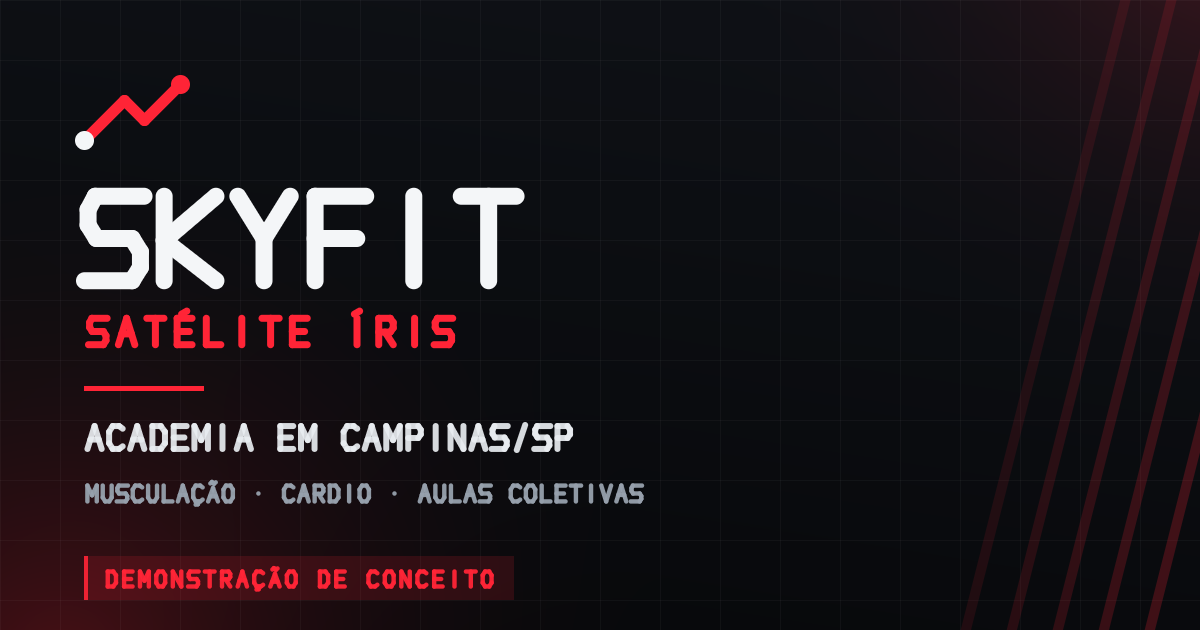
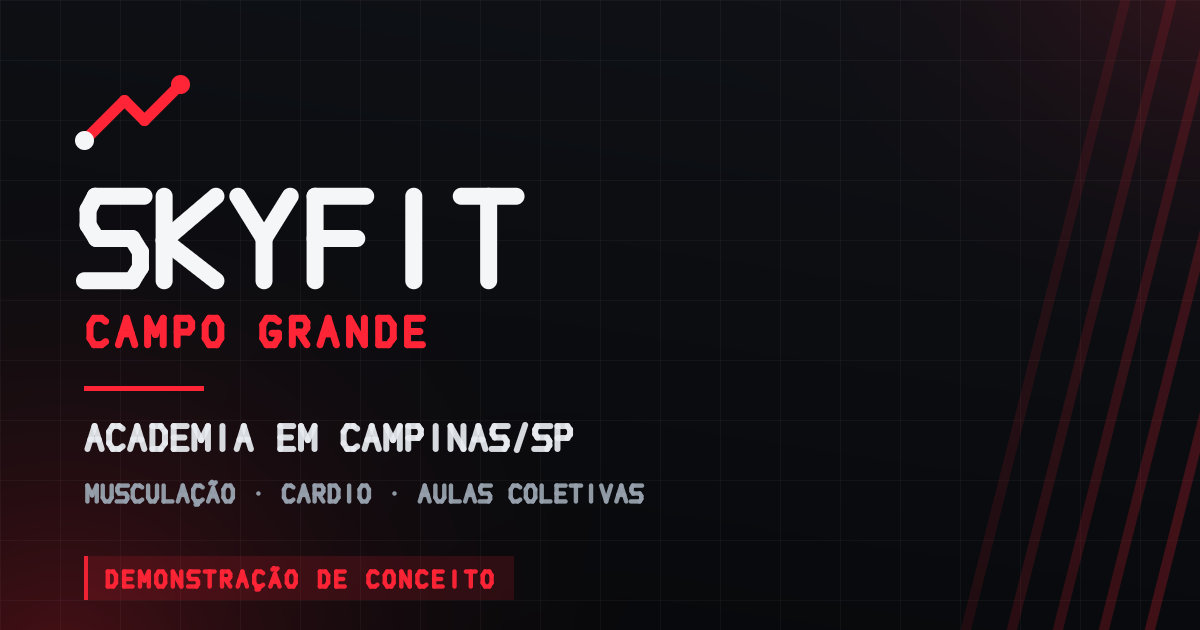
chore: renomeia a unidade de "Satélite Íris" para "Campo Grande"
Troca apenas o nome da unidade na demonstração da SkyFit. Nenhuma alteração
de layout, cores, imagens, fontes, funcionalidades ou estrutura.

16 ocorrências em 5 arquivos:
- src/config/site.js — unit, region, addressShort e o trecho codificado do
  link do Google Maps
- index.html — title, meta description, Open Graph e Twitter Card
- public/favicon.svg — aria-label
- src/styles/index.css — comentário de cabeçalho
- README.md — título e a nota de projetos do repositório

Também regerada public/og-image.png, que trazia "SATÉLITE ÍRIS" renderizado
em pixels e não seria alcançada por uma busca de texto. Só a string mudou —
composição, cores e tipografia da imagem seguem iguais.

O projeto exclusive-academia/ não foi tocado: "Cidade Satélite Íris" é o
endereço real daquela academia.

Verificado: nenhuma ocorrência de "Satélite" ou "Íris" restou em arquivo
algum do projeto (fonte e build); build sem erros e console limpo.

Claude-Session: https://claude.ai/code/session_017bWK6FuHkEQZPyCr7wyo96

Changed region(s): [[0.0617, 0.4825, 0.4008, 0.573]]

diff --git a/index.html b/index.html
@@ -6,10 +6,10 @@
     <meta name="theme-color" content="#07080a" />
 
     <!-- ================= SEO ================= -->
-    <title>SkyFit Satélite Íris | Academia em Campinas</title>
+    <title>SkyFit Campo Grande | Academia em Campinas</title>
     <meta
       name="description"
-      content="Conheça uma demonstração de experiência digital para uma academia na região do Satélite Íris, Campinas."
+      content="Conheça uma demonstração de experiência digital para uma academia na região do Campo Grande, Campinas."
     />
     <meta name="author" content="Demonstração de conceito — projeto independente" />
     <!-- Demonstração: não deve ser indexada como página oficial da academia.
@@ -21,23 +21,23 @@
     <!-- ================= Open Graph ================= -->
     <meta property="og:type" content="website" />
     <meta property="og:locale" content="pt_BR" />
-    <meta property="og:site_name" content="SkyFit Satélite Íris — Demonstração" />
-    <meta property="og:title" content="SkyFit Satélite Íris | Academia em Campinas" />
+    <meta property="og:site_name" content="SkyFit Campo Grande — Demonstração" />
+    <meta property="og:title" content="SkyFit Campo Grande | Academia em Campinas" />
     <meta
       property="og:description"
-      content="Conheça uma demonstração de experiência digital para uma academia na região do Satélite Íris, Campinas."
+      content="Conheça uma demonstração de experiência digital para uma academia na região do Campo Grande, Campinas."
     />
     <meta property="og:image" content="./og-image.png" />
     <meta property="og:image:width" content="1200" />
     <meta property="og:image:height" content="630" />
-    <meta property="og:image:alt" content="Demonstração de site para academia — SkyFit Satélite Íris" />
+    <meta property="og:image:alt" content="Demonstração de site para academia — SkyFit Campo Grande" />
 
     <!-- ================= Twitter / X ================= -->
     <meta name="twitter:card" content="summary_large_image" />
-    <meta name="twitter:title" content="SkyFit Satélite Íris | Academia em Campinas" />
+    <meta name="twitter:title" content="SkyFit Campo Grande | Academia em Campinas" />
     <meta
       name="twitter:description"
-      content="Conheça uma demonstração de experiência digital para uma academia na região do Satélite Íris, Campinas."
+      content="Conheça uma demonstração de experiência digital para uma academia na região do Campo Grande, Campinas."
     />
     <meta name="twitter:image" content="./og-image.png" />
 

diff --git a/src/config/site.js b/src/config/site.js
@@ -29,14 +29,14 @@ export const WHATSAPP_IS_PLACEHOLDER = WHATSAPP_NUMBER === '5519000000000'
  * -------------------------------------------------------------------------- */
 export const site = {
   brand: 'SKYFIT',
-  unit: 'SATÉLITE ÍRIS',
+  unit: 'CAMPO GRANDE',
   city: 'Campinas/SP',
-  region: 'Satélite Íris',
+  region: 'Campo Grande',
   // Endereço completo NÃO confirmado — manter o marcador até a validação.
   addressPlaceholder: '[INSERIR MAPA/ENDEREÇO OFICIAL DA UNIDADE]',
-  addressShort: 'Satélite Íris — Campinas/SP',
+  addressShort: 'Campo Grande — Campinas/SP',
   // Link do Google Maps. Substituir pelo link oficial da unidade.
-  mapsUrl: 'https://www.google.com/maps/search/?api=1&query=Sat%C3%A9lite+%C3%8Dris%2C+Campinas+-+SP',
+  mapsUrl: 'https://www.google.com/maps/search/?api=1&query=Campo+Grande%2C+Campinas+-+SP',
   // Iframe de mapa incorporado: deixar como `null` mantém o espaço reservado
   // com o marcador visual. Ao receber o endereço oficial, cole aqui a URL do
   // "Incorporar um mapa" do Google Maps.

diff --git a/src/styles/index.css b/src/styles/index.css
@@ -44,7 +44,7 @@
 
 
 /* ==========================================================================
-   SKYFIT SATÉLITE ÍRIS — DEMONSTRAÇÃO DE CONCEITO
+   SKYFIT CAMPO GRANDE — DEMONSTRAÇÃO DE CONCEITO
    Identidade visual própria, criada para esta demonstração.
    Não reproduz logotipo, tipografia ou elementos proprietários de terceiros.
    ========================================================================== */

diff --git a/README.md b/README.md
@@ -2,14 +2,14 @@
 >
 > | Projeto | Pasta | Como rodar |
 > | --- | --- | --- |
-> | SkyFit Satélite Íris (demonstração) | raiz do repositório | `npm run dev` |
+> | SkyFit Campo Grande (demonstração) | raiz do repositório | `npm run dev` |
 > | Exclusive Academia | `exclusive-academia/` | `cd exclusive-academia && npm run dev` |
 >
 > O README abaixo é do projeto **SkyFit**.
 
 ---
 
-# SkyFit Satélite Íris — Demonstração de site para academia
+# SkyFit Campo Grande — Demonstração de site para academia
 
 > ⚠ **Demonstração de conceito — projeto independente.**
 > Esta página **não é** um canal oficial da academia e **não foi publicada por ela**.
